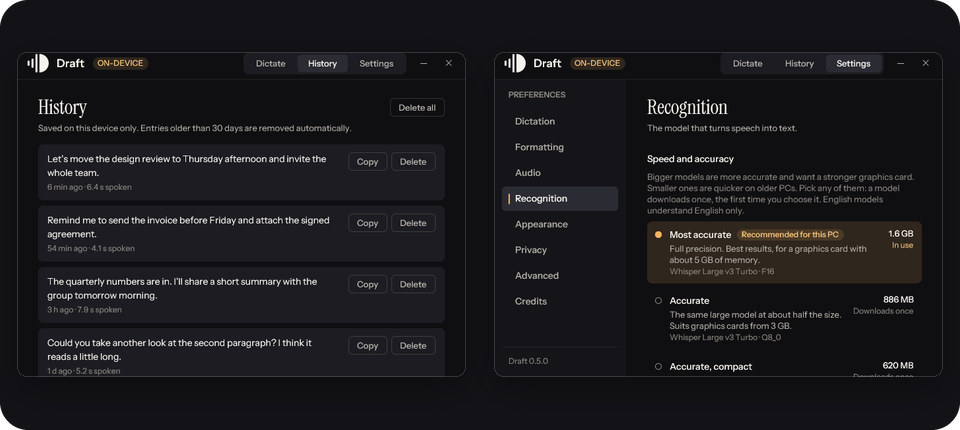
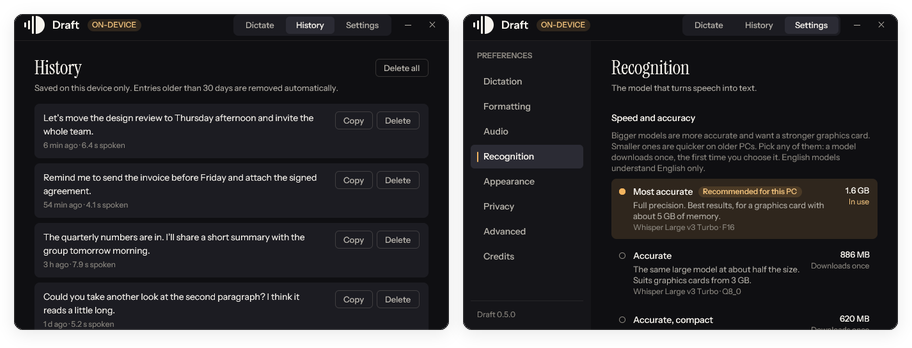
docs: left-align the README and crop images tight
Small left-aligned logo, no centered blocks, and screenshots without the
empty backdrop: the window with a soft edge and the recording indicator
over it, plus a tight two-window screens image.

diff --git a/README.md b/README.md
@@ -1,38 +1,28 @@
-<p align="center">
 <picture>
   <source media="(prefers-color-scheme: dark)" srcset="docs/images/banner-dark.png">
-  <img src="docs/images/banner-light.png" alt="Draft: private dictation for Windows" width="560">
+  <img src="docs/images/banner-light.png" alt="Draft" height="56">
 </picture>
-</p>
 
-<p align="center">
-  Hold a key, speak, release. The words appear at your cursor,<br>
-  and your voice never leaves your PC.
-</p>
+**Private dictation for Windows.** Hold a key, speak, release. The words appear
+at your cursor, and your voice never leaves your PC.
 
-<p align="center">
-  <a href="https://github.com/TirupMehta/draft-rs/releases/latest"><img alt="Latest release" src="https://img.shields.io/github/v/release/TirupMehta/draft-rs?style=flat-square&color=a3610c&labelColor=1b1915"></a>
-  <img alt="Windows 10 and 11, x64" src="https://img.shields.io/badge/Windows-10%20%7C%2011%20x64-1b1915?style=flat-square">
-  <a href="LICENSE"><img alt="MIT license" src="https://img.shields.io/badge/license-MIT-1b1915?style=flat-square"></a>
-  <img alt="No telemetry" src="https://img.shields.io/badge/telemetry-none-1b1915?style=flat-square">
-</p>
+[![Latest release](https://img.shields.io/github/v/release/TirupMehta/draft-rs?style=flat-square&color=a3610c&labelColor=1b1915)](https://github.com/TirupMehta/draft-rs/releases/latest)
+![Windows 10 and 11, x64](https://img.shields.io/badge/Windows-10%20%7C%2011%20x64-1b1915?style=flat-square)
+[![MIT license](https://img.shields.io/badge/license-MIT-1b1915?style=flat-square)](LICENSE)
+![No telemetry](https://img.shields.io/badge/telemetry-none-1b1915?style=flat-square)
 
-<p align="center">
-  <a href="https://github.com/TirupMehta/draft-rs/releases/latest"><b>Download</b></a> ·
-  <a href="#quick-start">Quick start</a> ·
-  <a href="#usage">Usage</a> ·
-  <a href="#performance">Performance</a> ·
-  <a href="#privacy">Privacy</a> ·
-  <a href="#troubleshooting">Troubleshooting</a> ·
-  <a href="#building-from-source">Build</a>
-</p>
+[**Download**](https://github.com/TirupMehta/draft-rs/releases/latest) ·
+[Quick start](#quick-start) ·
+[Usage](#usage) ·
+[Performance](#performance) ·
+[Privacy](#privacy) ·
+[Troubleshooting](#troubleshooting) ·
+[Build](#building-from-source)
 
-<p align="center">
 <picture>
   <source media="(prefers-color-scheme: dark)" srcset="docs/images/hero-dark.png">
-  <img src="docs/images/hero-light.png" alt="Draft, ready to dictate, with the recording indicator floating over the window" width="860">
+  <img src="docs/images/hero-light.png" alt="Draft, ready to dictate, with the recording indicator over the window" width="708">
 </picture>
-</p>
 
 |  |  |
 | :--- | :--- |
@@ -108,12 +98,10 @@ window you are typing in.
 | **History** | The History tab lists your newest 50 dictations with Copy and Delete. It stores text and duration only, never audio, and removes entries older than 30 days. |
 | **Tray** | Show Draft, Hide Draft, Paste last dictation, Quit Draft. Draft starts in the tray at sign-in unless you turn that off. |
 
-<p align="center">
 <picture>
   <source media="(prefers-color-scheme: dark)" srcset="docs/images/screens-dark.png">
-  <img src="docs/images/screens-light.png" alt="The History tab and the model chooser in Settings" width="860">
+  <img src="docs/images/screens-light.png" alt="The History tab and the model chooser in Settings" width="100%">
 </picture>
-</p>
 
 ## Models
 
